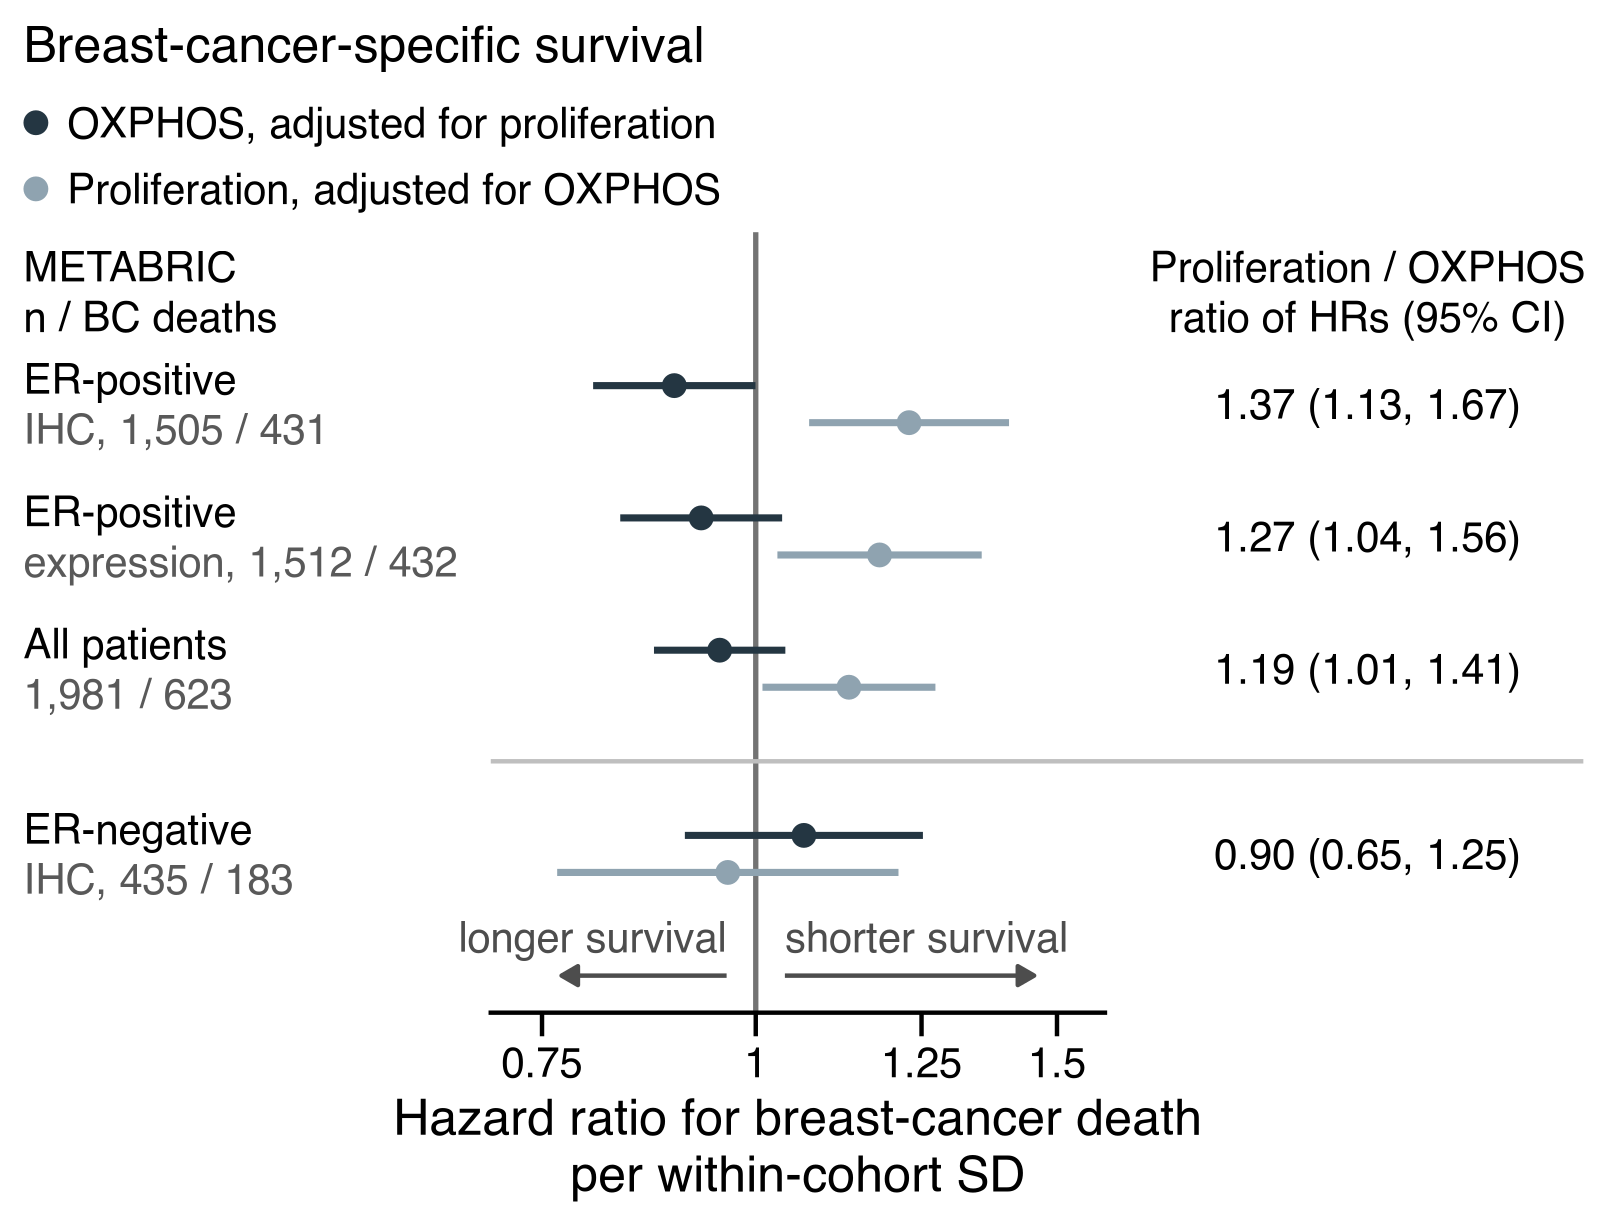
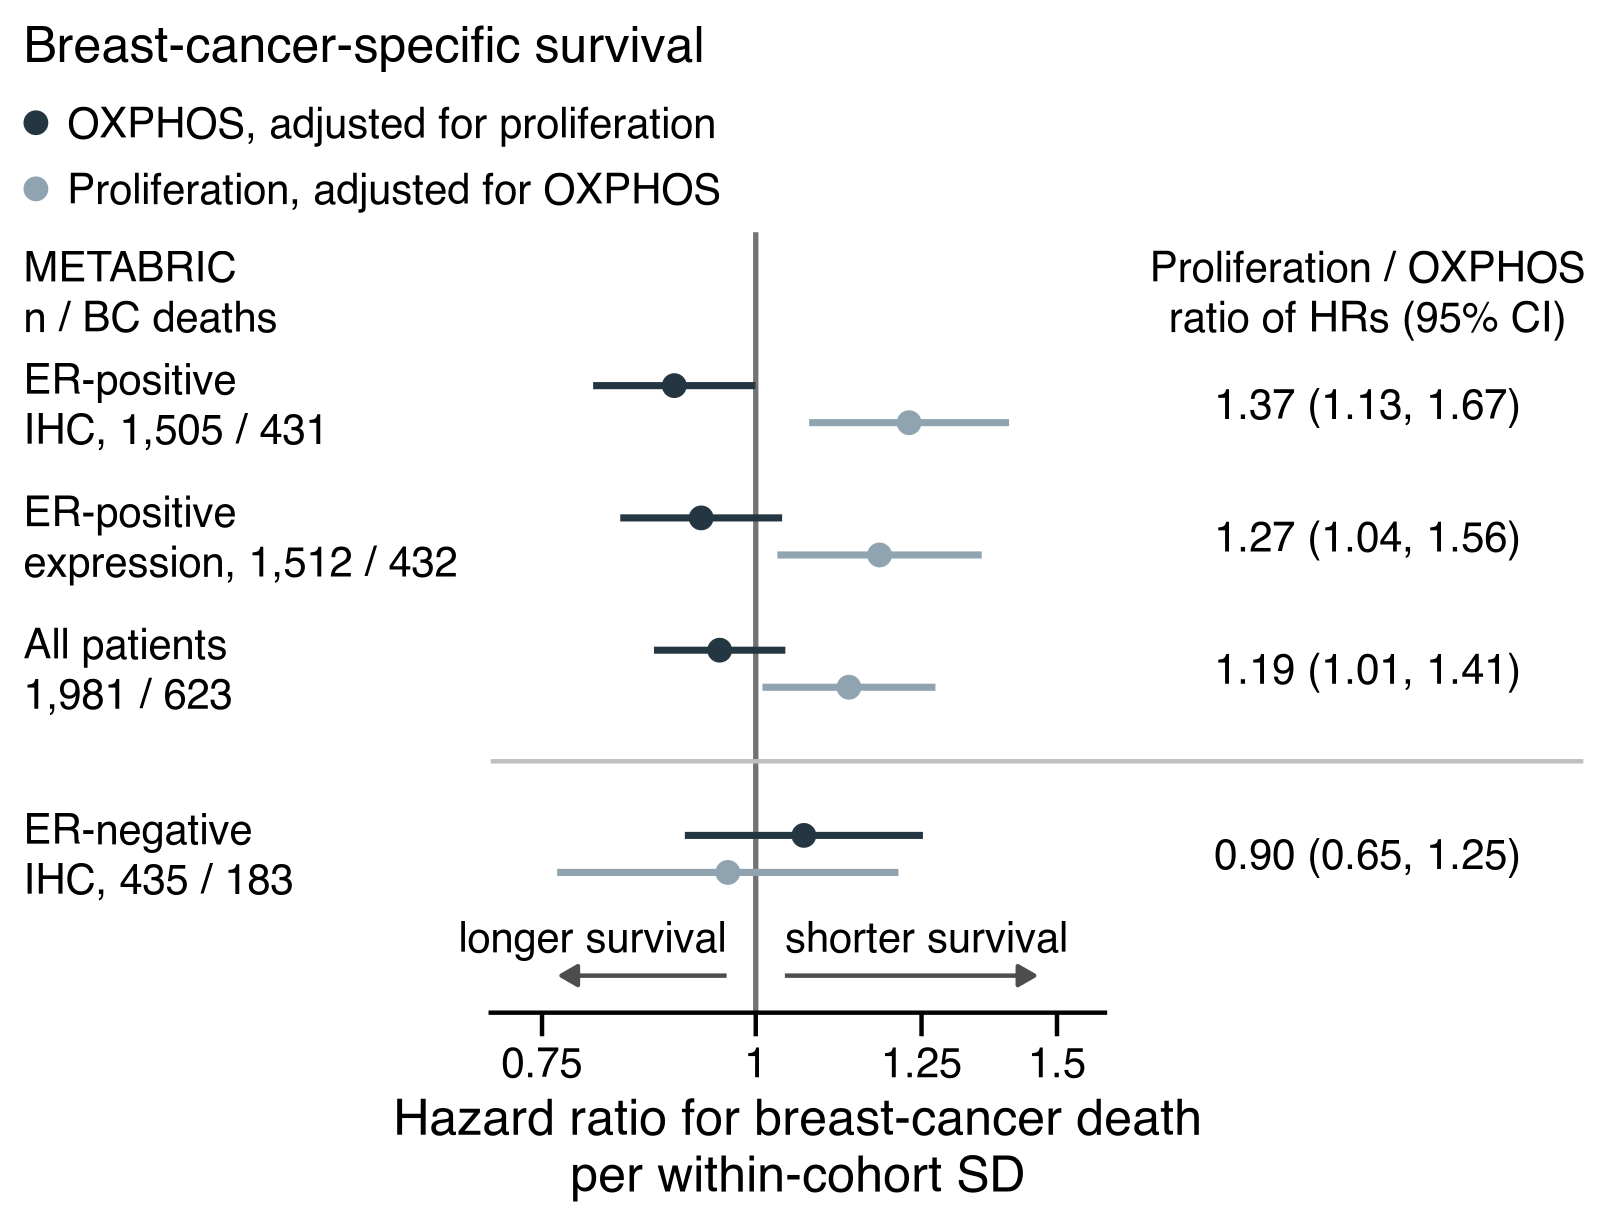
E57 result, second run: verified, 7 of 7 digests, 80 of 80 assertions; Fig. 4's forest panels
The author's second run (built 2026-11-06 01:44:14 GMT) matches every
digest and checksum committed before it (fc49263): each PNG and PDF in
both folders and both tables, identical to the dry run, with every
string black and the pCR connectors the only dashed lines. Its two
panels are Fig. 4's last two, in place of E45's figure. Two questions
of scope stay with the author: the grey cue arrows, and the white
values on the darkest cells of Fig. 4g and ED Fig. 6a.

The handoff records the push of 2026-11-06, at the author's request.

diff --git a/docs/2026-11-03_e50_handoff.md b/docs/2026-11-03_e50_handoff.md
@@ -15,9 +15,10 @@ status: >
   E54, which draws the co-amplification panel as Fig. 4x (8fde82a), are run
   and verified. E55 and E56, which draw Extended Data Fig. 6c and 6d by the
   author's ruling (dd5004a), are run and verified. E57, which redraws E45's
-  outcome forests as Fig. 4's last two panels (cb3c7d3), is run and verified.
-  The author then amended it (7ed8316); its second version's digests are
-  committed, and the author's second run is next, then the text ruling.
+  outcome forests as Fig. 4's last two panels (cb3c7d3), is run and verified
+  twice; its second version, after the author's amendment (7ed8316), gives
+  those panels. Nothing is pending from Claude Code; the text ruling is next.
+  Pushed on 2026-11-06.
 entry-point-for: Fig. 4 human panels (4g and its Extended Data) and the human text of the paper
 supersedes: >
   docs/2026-11-03_e49_handoff.md for 4g, its Extended Data and the next action.
@@ -30,7 +31,7 @@ supersedes: >
 
 ## 0. Resuming: start here
 
-**The next step is the author's: restart R and source `scripts/E57_outcome_forest_panels.R`, for its second run.** Then the text ruling, on the items listed below.
+**Nothing is pending from Claude Code. The next step is the author's text ruling**, on the items listed below.
 
 **E57 redraws E45's two outcome forests as Fig. 4's last two main panels**, by the author's ruling (`docs/2026-11-06_E57_outcome_forest_panels_ruling.md`, `cb3c7d3`).
 - **What it draws:**
@@ -45,10 +46,13 @@ supersedes: >
 - **Then the author amended it** (`docs/2026-11-06_E57_black_text_dashed_connector_ruling.md`, `7ed8316`):
   - no coloured text: every string black;
   - on the pCR panel, the connectors thinner and dashed.
-- **The second version's digests and checksums are committed**, in the amended pre-run note (`docs/2026-11-06_e57_prerun_digests.md`), before the second run.
+- **The second version's digests and checksums were committed** in the amended pre-run note (`docs/2026-11-06_e57_prerun_digests.md`, `fc49263`), before the second run.
   - Its section 4 lists the choices left open.
   - Its section 5 holds the legend drafts.
-- **After the second run, Claude Code** verifies it, commits the figures and adds the run to the result note.
+- **The second run is verified** (the result note, section 3): 7 of 7 digests, 80 of 80 assertions, every file identical to the dry run.
+  - **Its panels are Fig. 4's last two**, in place of E45's figure.
+  - **The files:** `docs/figures/2026-11-06_E57_pcr_forest.{pdf,png}` and `docs/figures/2026-11-06_E57_metabric_survival_forest.{pdf,png}`.
+  - **The cues' arrows stay grey30.** They are lines, not text; whether to make them black is the author's call (text-ruling item 7).
 
 **E55 and E56 are run and verified** (2026-11-06). The author's reply: "done, both are OK." Their panels are Extended Data Fig. 6c and 6d, by the author's ruling (`docs/2026-11-05_E55_E56_ed_fig6cd_ruling.md`, `dd5004a`).
 - **E55, Fig. 6c** (`docs/2026-11-06_e55_result.md`, `d15be08`): 7 of 7 digests, 22 of 22 assertions, every file identical to the dry run.
@@ -72,7 +76,7 @@ supersedes: >
 4. **E53's three open choices** (its pre-run note, section 4): -0.1 as an unlabelled tick, no "open/filled" lines in the key, plain titles.
 5. **v6's six proposed changes,** with the four Methods sentences outside STYLE.md's range (items 0 and 3 below).
 6. **The outcome forests (E57), Fig. 4's last two panels:** their letters and legends (E57's pre-run note, section 5).
-7. **Does "no coloured text" (`7ed8316`) also reach the white values on the darkest cells?** They are in Fig. 4g, with ED-e and ED-f (E50), and in ED Fig. 6a (E53). Neither is changed.
+7. **Does "no coloured text" (`7ed8316`) also reach the white values on the darkest cells?** They are in Fig. 4g, with ED-e and ED-f (E50), and in ED Fig. 6a (E53). Neither is changed. **And should E57's grey cue arrows be black?**
 
 **E54 is run and verified, twice** (`docs/2026-11-05_e54_result.md`). **Its second version, with smaller circles, is Fig. 4x.**
 - **The first run** (`ec9b590`): 7 of 7 digests, 26 of 26 assertions.
@@ -174,7 +178,7 @@ What follows is E54's record before its runs.
 
 **The state:**
 - the working tree is clean;
-- **pushed on 2026-11-05 up to `af101bc`, at the author's request.** Later commits are not pushed: `d579ed6`, `8fde82a`, `c1dceed`, `d290bc3`, `6550011`, `ec9b590`, `4b22f97`, `4299736`, `dd5004a`, `58c9791`, `922f2ad`, `0424005`, `dacc47a`, `d15be08`, `eb2f15c`, `cb3c7d3`, `dba2962`, `7ed8316`, `6d988fa` and the commit that carries this handoff;
+- **pushed on 2026-11-06, at the author's request, up to the commit that carries this state** (the record table's last row). The push before it was on 2026-11-05, up to `af101bc`;
 - push only when the author asks, and never force-push.
 
 ## 1. Where things stand
@@ -382,9 +386,10 @@ From the E49 handoff, section 4, and E49's result note, section 5, item 6:
 | `dba2962` | E57's script and its pre-run digests, before the author's first run; CLAUDE.md and this handoff |
 | `7ed8316` | the author's E57 amendment, black text and dashed connectors, verbatim, alone |
 | `6d988fa` | E57's first run, verified, and its figures |
-| the last commit | E57's second version and its amended pre-run digests, before the second run; CLAUDE.md and this handoff |
+| `fc49263` | E57's second version and its amended pre-run digests, before the second run; CLAUDE.md and this handoff |
+| the last commit | E57's second run, verified, and Fig. 4's forest panels; the result note, CLAUDE.md and this handoff's push state; pushed |
 
-**Pushed on 2026-11-05 up to `af101bc`.**
+**Pushed on 2026-11-06, at the author's request, up to the last commit above.**
 
 **Regenerating:**
 - **The results object** `results/e50_fig4g_in_fig1g_style.rds` is gitignored.

diff --git a/docs/2026-11-06_e57_result.md b/docs/2026-11-06_e57_result.md
@@ -1,10 +1,11 @@
 ---
 date: 2026-11-06
 status: >
-  E57 RUN by the author and VERIFIED against the digests and checksums
-  committed before the run (dba2962). The author then amended it (7ed8316):
-  all text black, and the pCR panel's connectors thinner and dashed. The
-  second version follows; this note will record its run too.
+  E57 RUN twice by the author and VERIFIED both times, each against digests
+  and checksums committed before its run: the first version (dba2962), then,
+  after the author's amendment (7ed8316: all text black, the pCR panel's
+  connectors thinner and dashed), the second (fc49263). The second version's
+  panels are Fig. 4's last two.
 relates-to:
   - docs/2026-11-06_E57_outcome_forest_panels_ruling.md (cb3c7d3, the specification)
   - docs/2026-11-06_E57_black_text_dashed_connector_ruling.md (7ed8316, the amendment)
@@ -37,4 +38,27 @@ The second version's run will overwrite them under the same names.
 - **all text is black.** The first version had three kinds of grey text, as E45 drew them: the rows' second lines, I-squared and the cues' words;
 - **on the pCR panel, the lines joining each row's two OXPHOS circles are thinner and dashed.**
 
-**So E57 is changed and will be run again.** Its new digests are committed before the second run, in the amended pre-run note.
+**So E57 was changed and run again.** Its new digests were committed before the second run, in the amended pre-run note (`fc49263`).
+
+## 3. The second run: verified
+
+| what | result |
+|---|---|
+| the run | built 2026-11-06 01:44:14 GMT, after the second version's digests were committed at 01:38:11 (`fc49263`); R 4.6.1 |
+| saved elements, by digest (`run_info` excluded) | **7 of 7 match** |
+| assertions | **80 of 80 pass**, among them that every string is black and that the connectors are the only dashed lines |
+| each PNG, in `outputs/figures` and `docs/figures` | **identical to the dry run**, byte for byte |
+| each PDF, in both folders | **identical to the dry run**, timestamps zeroed; each file is complete (`%%EOF`) |
+| `E57_drawn_values.csv`, `E57_assertions.csv` | **match** |
+
+**Its figures replace the first version's under the same names,** and are committed with this section. git keeps the first version at `6d988fa`.
+
+**E57's second version gives Fig. 4's last two main panels.** It replaces E45's combined figure for the paper:
+- `docs/figures/2026-11-06_E57_pcr_forest.{pdf,png}`;
+- `docs/figures/2026-11-06_E57_metabric_survival_forest.{pdf,png}`.
+
+**What follows, for the author:**
+- **The text ruling:** the panels' letters, and their legends (drafts in the pre-run note, section 5).
+- **Two questions of scope,** from the amendment:
+  - the cues' arrows are lines and stay grey30. Should they be black too?
+  - does "no coloured text" reach the white values on the darkest cells of Fig. 4g, with ED-e and ED-f (E50), and of ED Fig. 6a (E53)? Neither is changed.

diff --git a/CLAUDE.md b/CLAUDE.md
@@ -82,14 +82,19 @@ Its first run is VERIFIED** (7 of 7 digests, 75 of 75 assertions;
 - **no coloured text:** every string is black;
 - **the pCR panel's connectors** are thinner (0.26 pt) and dashed.
 
-**The second version is WRITTEN and its digests COMMITTED** (the amended
-pre-run note, `docs/2026-11-06_e57_prerun_digests.md`). **The author's
-second run is next.** The specification is
-`docs/2026-11-06_E57_outcome_forest_panels_ruling.md` (`cb3c7d3`).
+**The second version is RUN and VERIFIED** (7 of 7 digests, 80 of 80
+assertions, every file identical to the dry run; the result note, section
+3). **Its panels are Fig. 4's last two**, in place of E45's figure:
+`docs/figures/2026-11-06_E57_{pcr_forest,metabric_survival_forest}.{pdf,png}`.
+The specification is `docs/2026-11-06_E57_outcome_forest_panels_ruling.md`
+(`cb3c7d3`).
 
-**Open for the author:** does "no coloured text" also reach the white values
-on the darkest cells? They are in Fig. 4g, with ED-e and ED-f (E50), and in
-ED Fig. 6a (E53). Neither is changed.
+**Open for the author:**
+- does "no coloured text" also reach the white values on the darkest cells?
+  They are in Fig. 4g, with ED-e and ED-f (E50), and in ED Fig. 6a (E53).
+  Neither is changed;
+- the cues' arrows on E57's panels are lines, and stay grey30. Should they
+  be black?
 - **What it draws:** E45's two outcome forests, each as its own panel:
   - pCR in three neoadjuvant cohorts;
   - METABRIC breast-cancer-specific survival.
@@ -873,7 +878,8 @@ number is `E58`**.
   separate panels, Fig. 4's last two, at Fig. 4x's size and in its slates.
   Its first run is verified (7 of 7 digests, 75 of 75 assertions). The
   author then amended it: black text, and dashed connectors. The second
-  version's digests are committed, and the author's second run is next.
+  version is run and verified (7 of 7 digests, 80 of 80 assertions), and its
+  panels are Fig. 4's last two.
 
 **`E31` is the only analysis still off `main`. No phase is open.**
 
